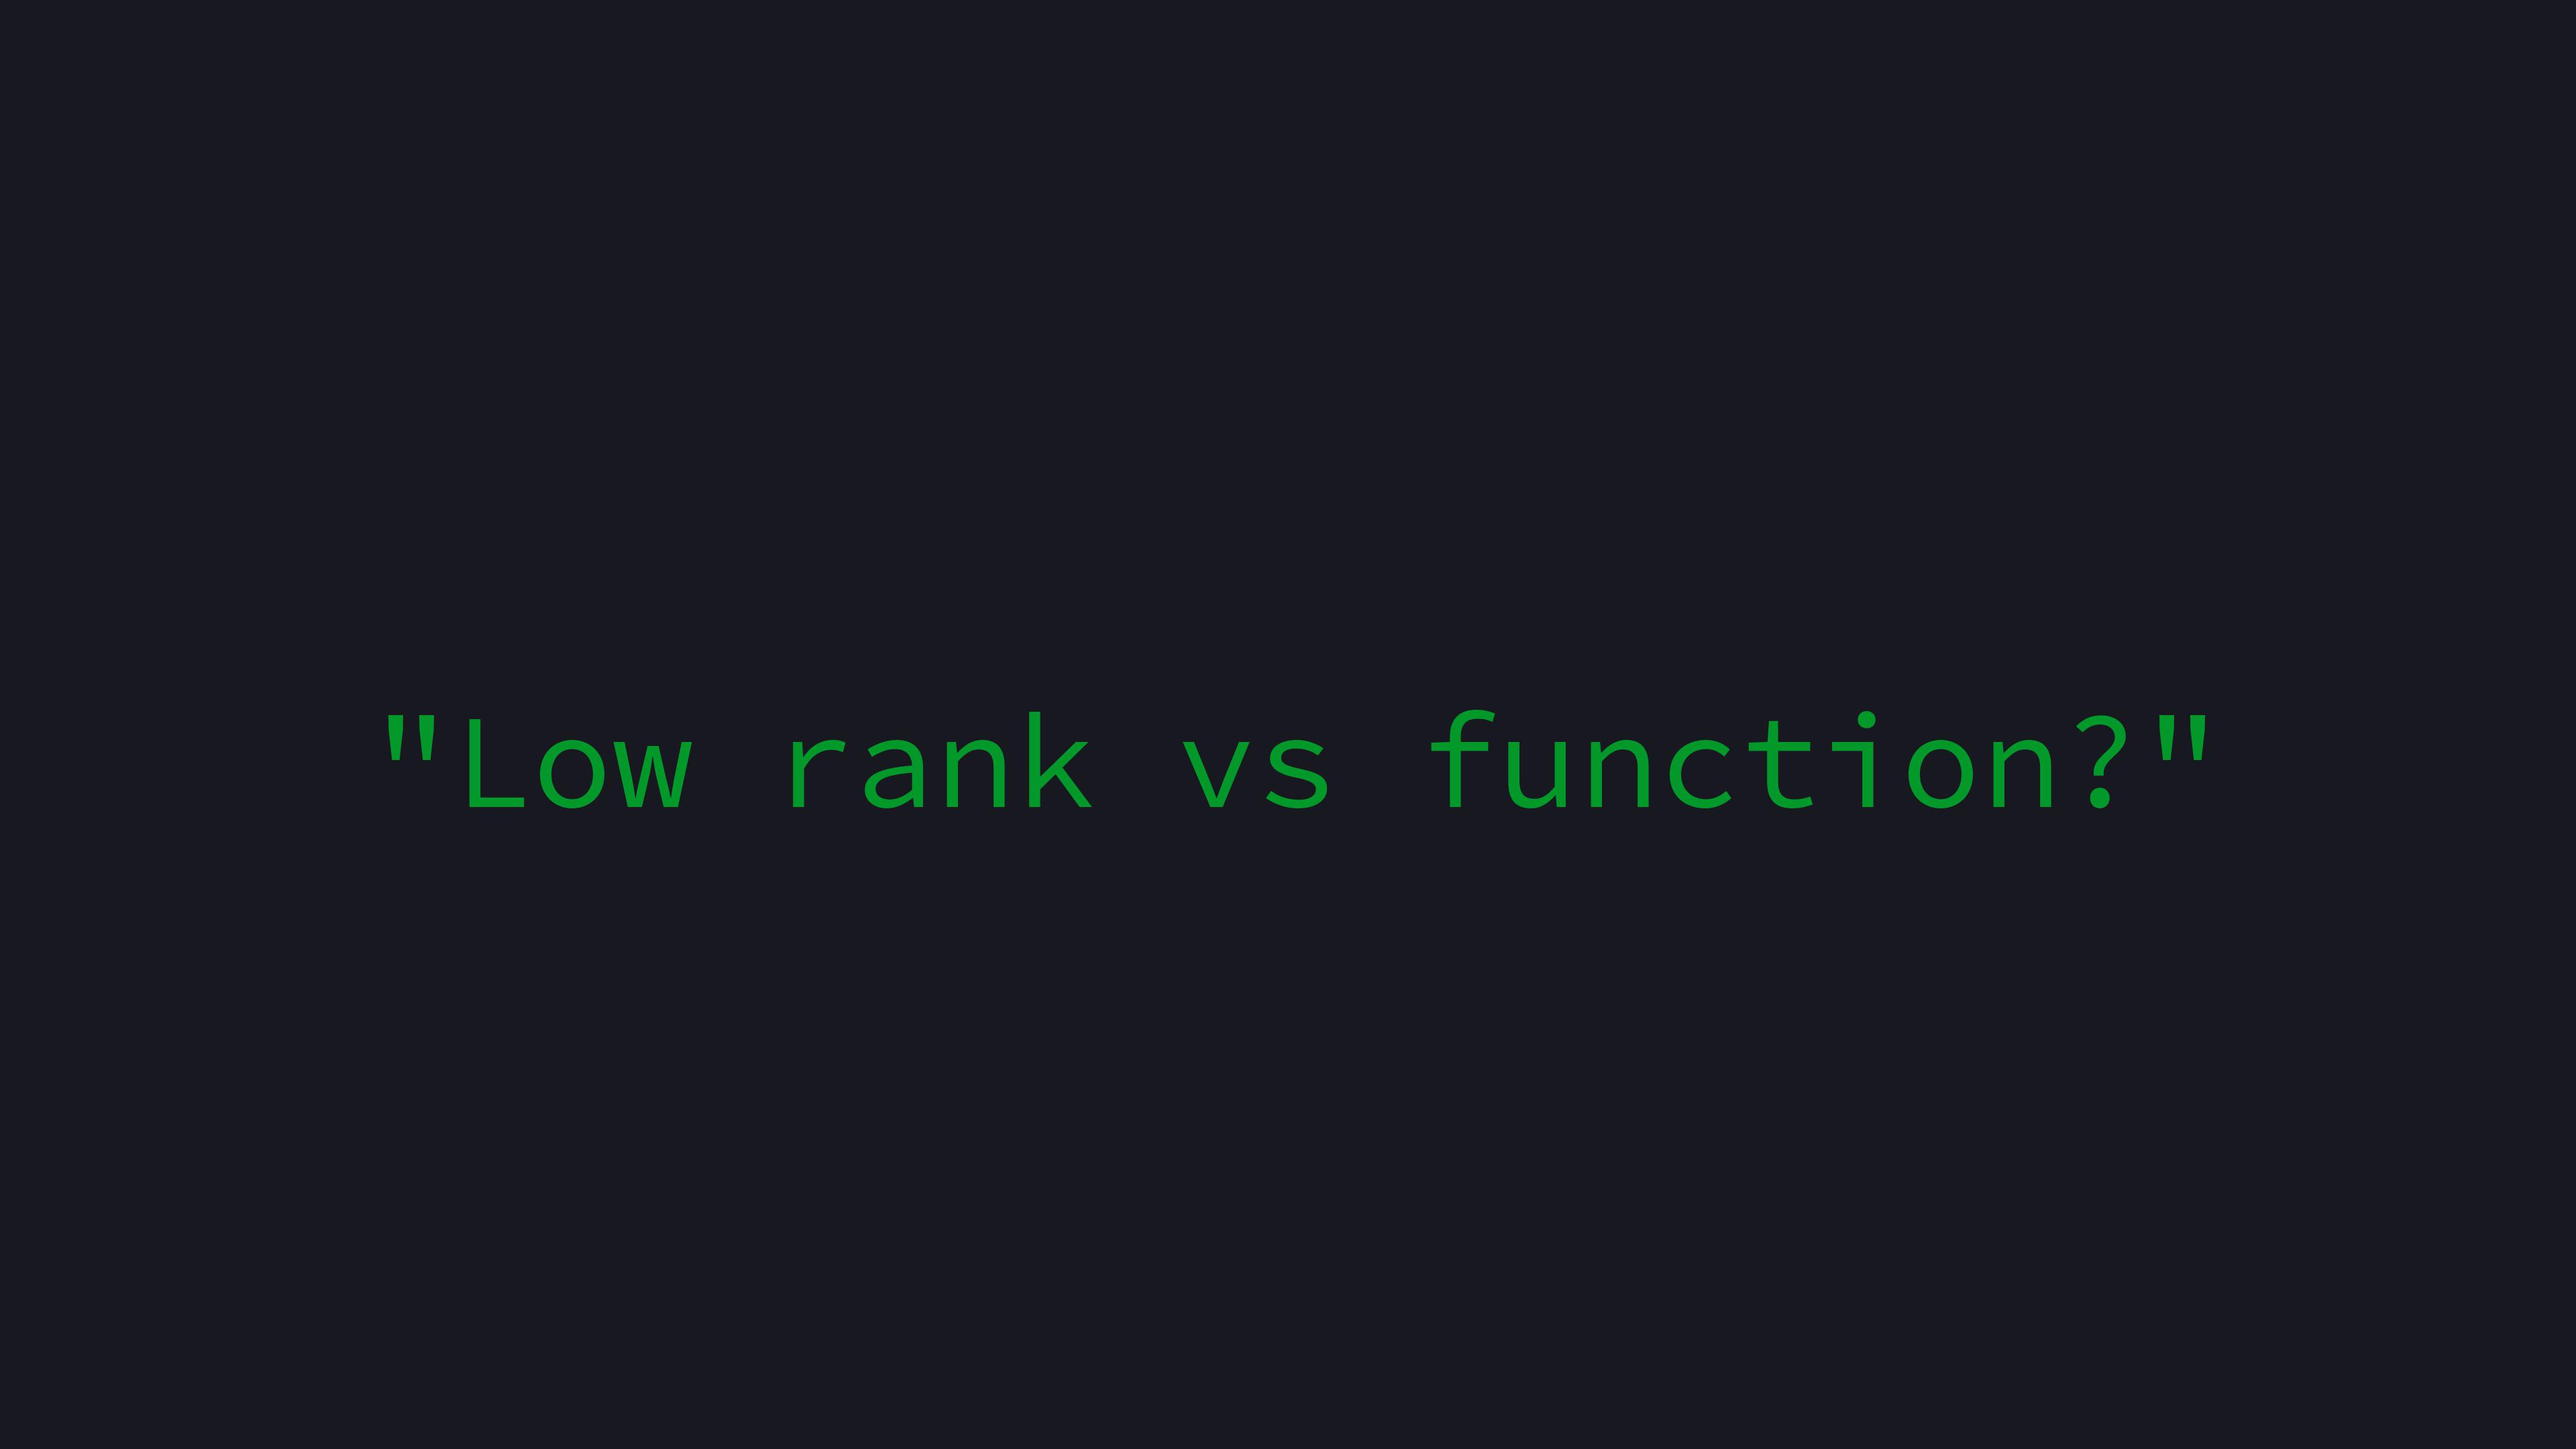
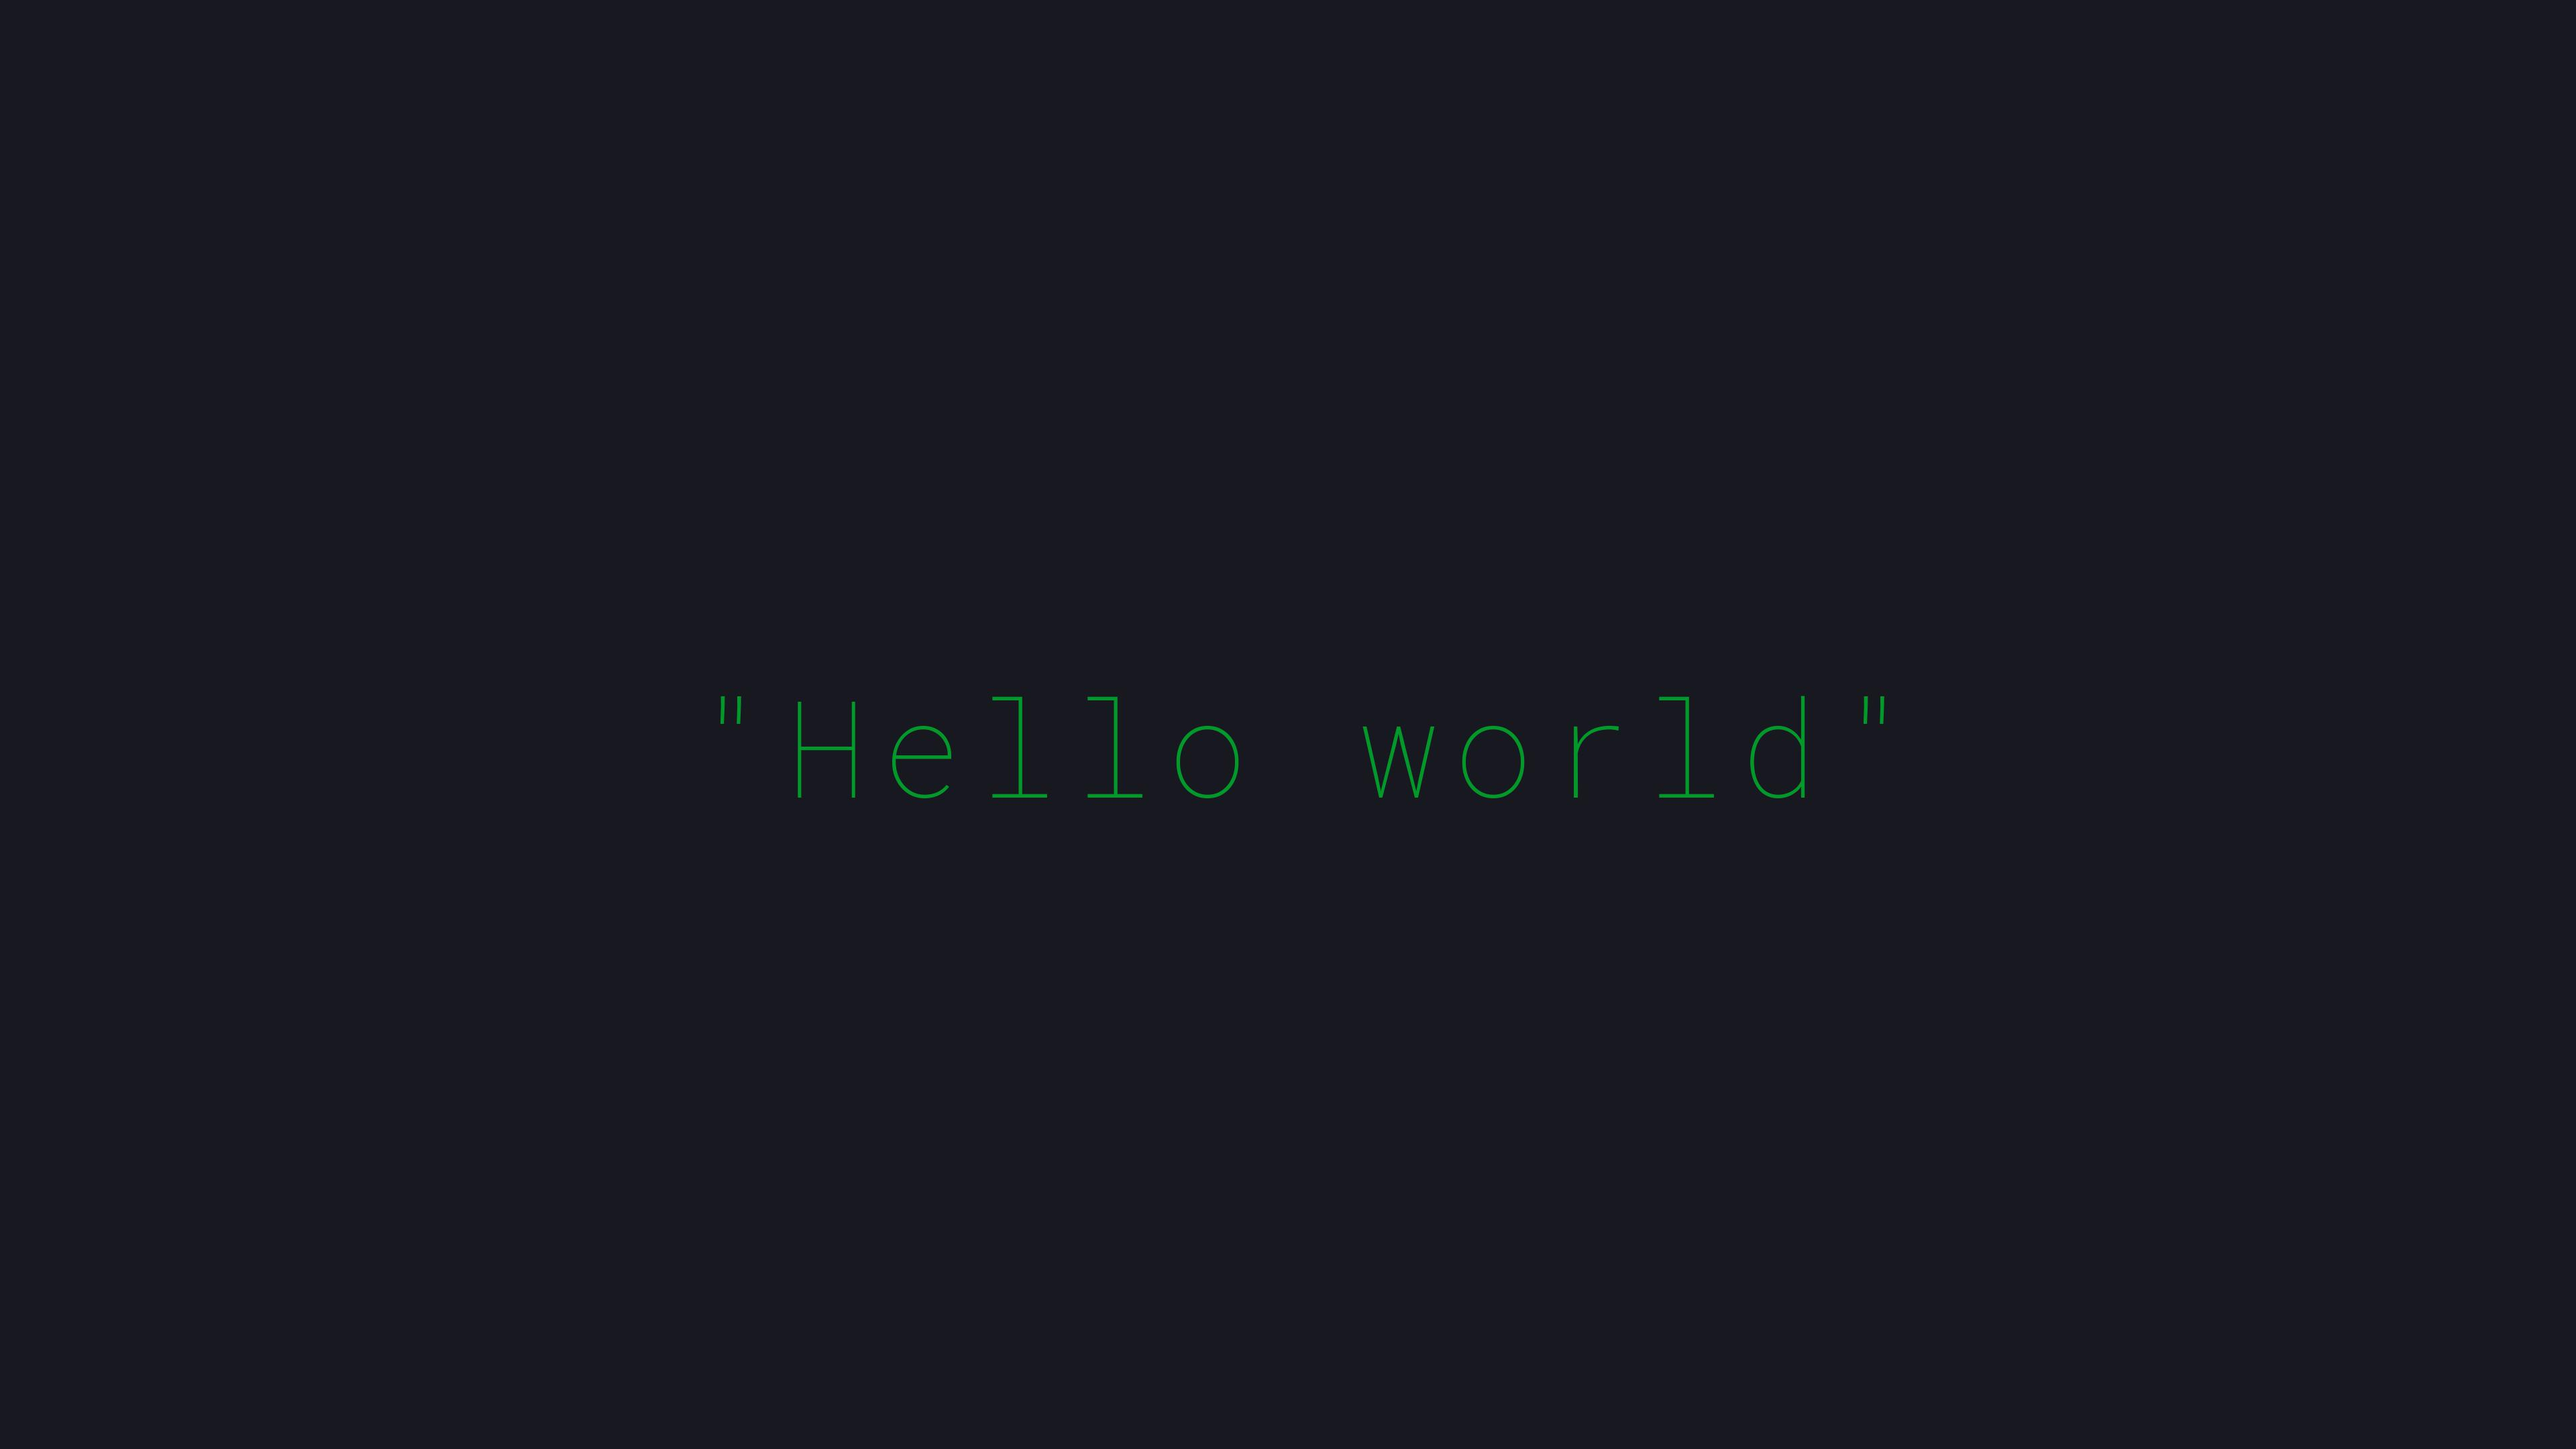
change background

Changed region(s): [[0.125, 0.4963, 0.875, 0.5583]]

diff --git a/draw_bg.py b/draw_bg.py
@@ -5,12 +5,14 @@ W = 3840
 H = 2160
 out = Image.new("RGB", (3840, 2160), (24, 24, 33))
 # get a font
-fnt = ImageFont.truetype("/usr/share/fonts/adobe-source-code-pro/SourceCodePro-Regular.otf", 200)
+# fnt = ImageFont.truetype("/usr/share/fonts/adobe-source-code-pro/SourceCodePro-Regular.otf", 200)
+fnt = ImageFont.truetype("/usr/share/fonts/TTF/Roboto Mono Thin Nerd Font Complete Mono.ttf", 200)
+
 # get a drawing context
 d = ImageDraw.Draw(out)
 
 # draw multiline text
-text = '"Low rank vs function?"'
+text = '"Hello world"'
 _, _,w, h = fnt.getmask(text).getbbox()
 
 d.text((int((W - w)/2), int((H-h)/2)), text, font=fnt, fill=(2, 153, 42))
